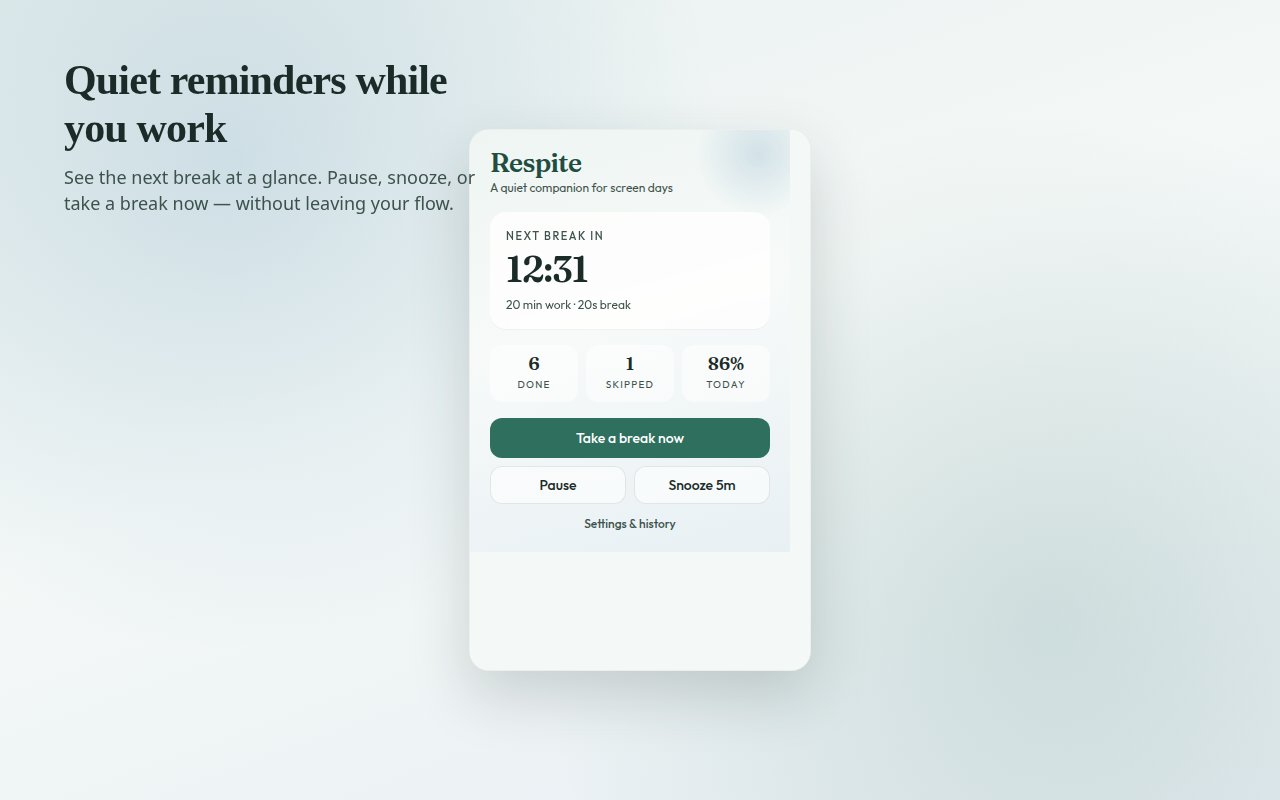
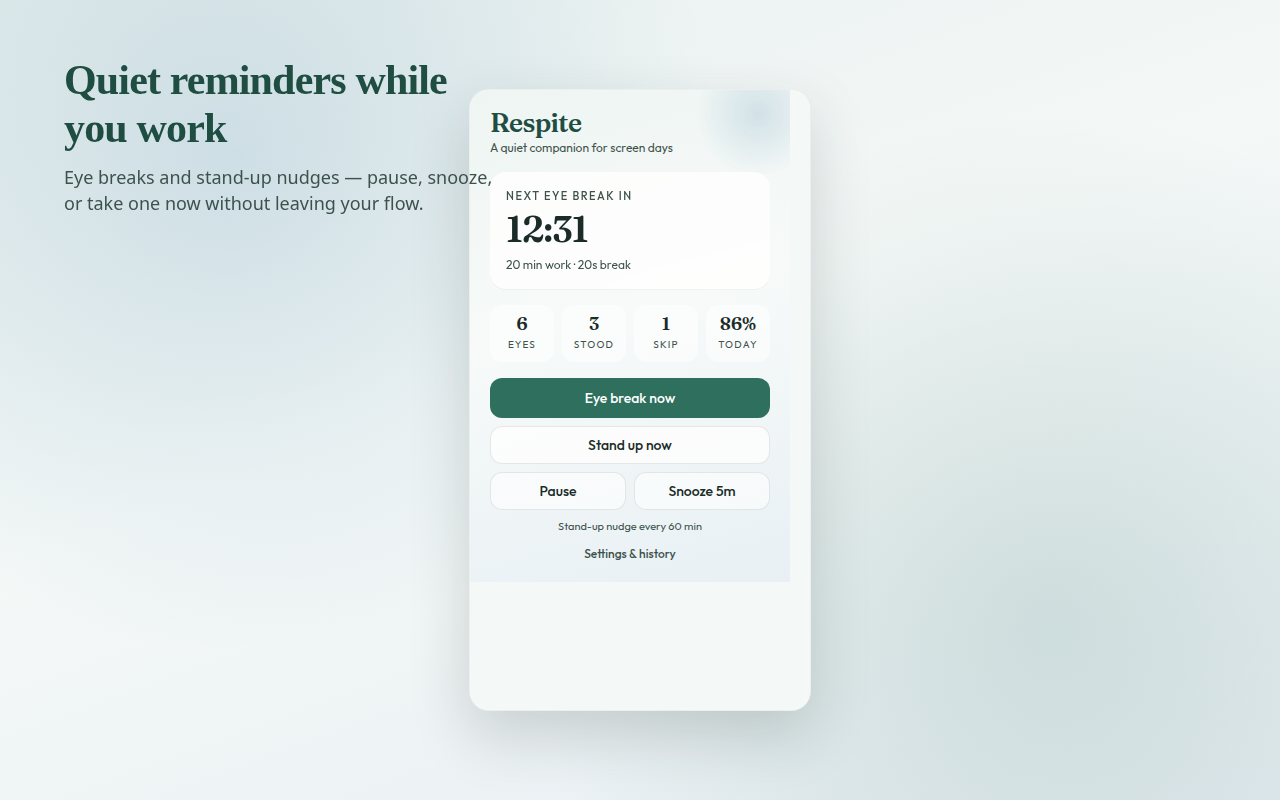
Refresh Chrome Web Store screenshots for stand-up nudges
Add popup, eye-break, stand-up, and settings captures at 1280x800 for
the 0.1.2 listing update.

diff --git a/store/LISTING.md b/store/LISTING.md
@@ -90,24 +90,19 @@ English
 
 ---
 
-## Graphic assets
+## Graphic assets (ready to upload)
 
-| Asset | Path | Notes for 0.1.2 |
+All screenshots are **1280×800** PNG.
+
+| Order | File | Shows |
 |---|---|---|
-| Store icon | `store/icons/icon-128.png` | Keep |
-| Screenshot 1 — Popup | `store/screenshots/01-popup-1280x800.png` | Prefer a fresh capture showing “Stand up now” |
-| Screenshot 2 — Eye break | `store/screenshots/02-break-1280x800.png` | Keep |
-| Screenshot 3 — Settings | `store/screenshots/03-settings-1280x800.png` | Prefer a fresh capture showing stand-up settings |
-| Screenshot 4 — Stand up | *(capture locally)* | **Add this** — stand screen is the new feature |
-| Small promo tile | `store/promo/small-tile-440x280.png` | Optional keep |
-| Marquee | `store/promo/marquee-1400x560.png` | Optional; text still fine |
-
-### How to capture a stand-up screenshot (1280×800)
-1. Load unpacked `dist/`
-2. Popup → **Stand up now**
-3. Screenshot the stand tab (or use a 1280×800 window)
-4. Upload as an extra store screenshot
-
+| 1 | `store/screenshots/01-popup-1280x800.png` | Popup with eye break + stand up |
+| 2 | `store/screenshots/02-break-1280x800.png` | Eye-break screen |
+| 3 | `store/screenshots/03-stand-1280x800.png` | Stand-up screen |
+| 4 | `store/screenshots/04-settings-1280x800.png` | Settings with stand-up nudges |
+| Icon | `store/icons/icon-128.png` | Store icon |
+| Optional | `store/promo/small-tile-440x280.png` | Small promo tile |
+| Optional | `store/promo/marquee-1400x560.png` | Marquee promo |
 ---
 
 ## Privacy practices tab
